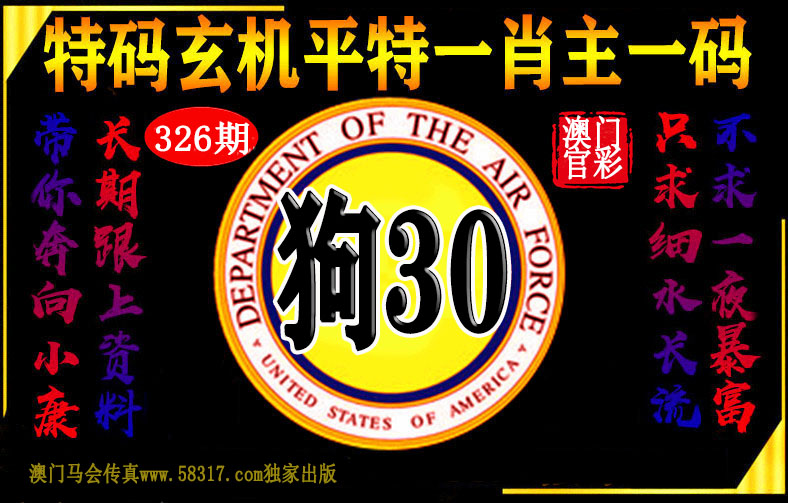
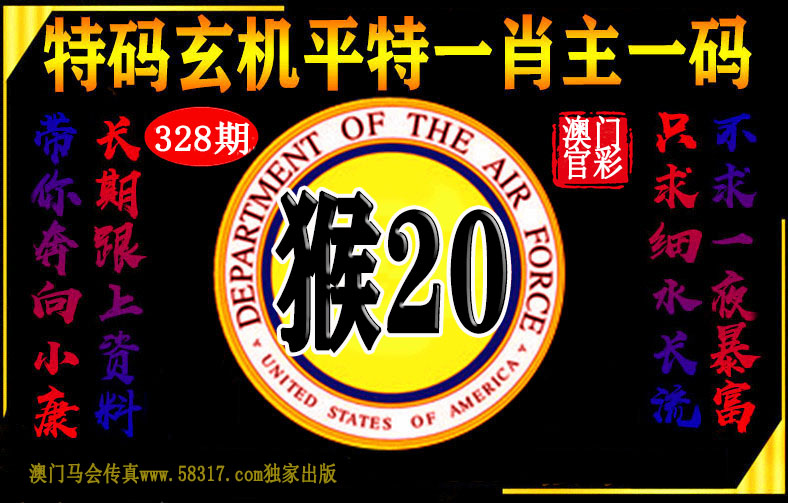
Update:  2023.11.24 15:20:53

Changed region(s): [[0.335, 0.3579, 0.5787, 0.7157], [0.2437, 0.2386, 0.2741, 0.2982]]

diff --git a/Script/Src/xjw/杀两肖图.js b/Script/Src/xjw/杀两肖图.js
@@ -67,8 +67,8 @@ document.writeln("					<td height=\'40\' style=\'box-sizing: border-box;\'>");
 document.writeln("			<p align=\'center\' style=\'box-sizing: border-box; padding: 0px; margin: 0px;\'>");
 document.writeln("			<font size=\'4\' style=\'margin: 0px; padding: 0px;\'>");
 document.writeln("			328期玄机网禁两肖<font color=\'#FF0000\'>【兔蛇】</font>特开<font color=\'#0000FF\'>？00</font>准<br>");
-document.writeln("			328期澳门杀两肖图<font color=\'#FF0000\'>【更新】</font>特开<font color=\'#0000FF\'>？00</font>准<br>");
-document.writeln("			328期澳门图库禁肖<font color=\'#FF0000\'>【更新】</font>特开<font color=\'#0000FF\'>？00</font>准</font></font></p></td>");
+document.writeln("			328期澳门杀两肖图<font color=\'#FF0000\'>【羊龙】</font>特开<font color=\'#0000FF\'>？00</font>准<br>");
+document.writeln("			328期澳门图库禁肖<font color=\'#FF0000\'>【鸡马】</font>特开<font color=\'#0000FF\'>？00</font>准</font></font></p></td>");
 document.writeln("		</tr>");
 document.writeln("<!--推广-->");
 document.writeln("				<tr style=\'box-sizing: border-box;\'>");
